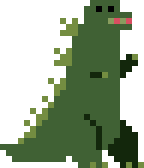
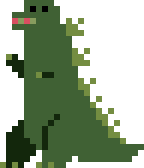
changed dino asset and added intro view

diff --git a/app.js b/app.js
@@ -12,11 +12,11 @@ $(document).ready(function() {
 
 		// wufooSaurus variables
 		wufooSaurus = {
-			width: 145,
-			height: 158,
-			x: 30,
-			y: canvas.height - 158,
-			wufooSaurusSpeed: 13
+			width: 150,
+			height: 175,
+			x: 0,
+			y: canvas.height - 150,
+			wufooSaurusSpeed: 15
 		},
 
 		// survey variables
@@ -75,7 +75,7 @@ $(document).ready(function() {
 			},
 			drawWufooSaurus: function() {
 				var img = new Image();
-				img.src = 'assets/wufooSaurus.png';
+				img.src = 'assets/wufooSaurusSmall.png';
 				function drawDino() {
 					context.drawImage(img, wufooSaurus.x, wufooSaurus.y-10);
 				}
@@ -85,15 +85,9 @@ $(document).ready(function() {
 				init();
 			},
 			drawScore: function() {
-				if($(window).width > 768) {
 					context.font = "14px 'Press Start 2P'";
 					context.fillStyle = "#000";
 					context.fillText("Score:" + score, 15, 30);
-				} else {
-					context.font = "24px 'Press Start 2P'";
-					context.fillStyle = "#000";
-					context.fillText("Score:" + score, 25, 40);
-				}
 			},
 			drawSurveys: function() {
 				for (var i = 0; i < surveys.length; i++) {
@@ -115,12 +109,14 @@ $(document).ready(function() {
 			isColliding: function(a, b) {
 				return !(b.x > a.x + a.width || b.x + b.width < a.x || b.y > a.y + a.height || b.y + b.height < a.y);
 			},
-			logMiss: function() {
+			logMiss: function(score) {
 				continueAnimating = false;
 				$('#surveyModal').modal({
-					// backdrop: 'static',
-					// keyboard: false
+					backdrop: 'static',
+					keyboard: false,
+					score: score
 				});
+				app.find('.completionText').text('Great job! You scored ' + score + '! It seems like you did a little better witha little help!');
 			},
 			moveLeft: function() {
 				wufooSaurus.x -= wufooSaurus.wufooSaurusSpeed;
@@ -138,7 +134,7 @@ $(document).ready(function() {
 			resetSurvey: function(survey) {
 				survey.x = Math.random() * (canvas.width - surveyWidth);
 				survey.y = 40 + Math.random() * 30;
-				survey.speed = (0.55 + Math.random()) * 0.9;
+				survey.speed = (0.5 + Math.random()) * 0.5;
 			},
 			setGame: function() {
 				score = startingScore;
@@ -166,24 +162,25 @@ $(document).ready(function() {
 					if (survey.y > canvas.height) {
 						sound = new Audio("audio/buzzerSound.mp3");
 						sound.play();
-						helper.logMiss();
+						helper.logMiss(score);
 					}
 				}
 			}
 		};
 
-	app.find('.instruction1').show();
+	app.find('.introView').show();
 	app.find('.mobileButtonWrapper').hide();
 
 	for (var i = 0; i < totalSurveys; i++) {
 		helper.addSurvey();
 	}
 
+	helper.bindClick('.button0');
 	helper.bindClick('.button1');
 	helper.bindClick('.button2');
 	helper.bindClick('#start');
 
-	// arrows for desktop
+	// arrow keys for desktop
 	document.onkeydown = function (event) {
 		if (event.keyCode == 39) {
 			helper.moveRight();
@@ -193,17 +190,11 @@ $(document).ready(function() {
 	};
 
 	// buttons for mobile
-	app.find('.mobileRight').on('touchstart mousedown', function(e) {
-		e.preventDefault();
-		int = setInterval(helper.moveRight, 100);
-	}).bind('mouseup', function() {
-		clearInterval(int);
+	app.find('.mobileRight').on('click', function() {
+		helper.moveRight();
 	});
-	app.find('.mobileLeft').on('touchstart mousedown', function(e) {
-		e.preventDefault();
-		int = setInterval(helper.moveLeft, 100);
-	}).bind('mouseup', function() {
-		clearInterval(int);
+	app.find('.mobileLeft').on('click', function() {
+		helper.moveLeft();
 	});
 
 	app.on('click', '.playAgainButton', function() {

diff --git a/index.html b/index.html
@@ -20,12 +20,27 @@
 					<div class="modal-dialog">
 						<div class="modal-content">
 							<div class="modal-body">
-								<p class="completionText">Great job! It seems like you did a little better with a little help!</p>
+								<p class="completionText"></p>
 								<div class="modalButtonWrapper">
 									<button class="modalButton toPortfolioButton">Check out Summer's Portfolio</button>
 									<button class="modalButton playAgainButton">Play again</button>
 								</div>
 								<div class="clearfix"></div>
+							</div>
+						</div>
+					</div>
+				</div>
+				<!-- intro view -->
+				<div class="introView surgeView">
+					<div class="row">
+						<div class="col-xs-12">
+							<div class="introWrapper">
+								<h1>SurveyCatch</h1>
+								<p>A friendship continued...</p>
+								<div class="imageWrapper">
+									<img class="introImg" src="assets/introImage.png">
+								</div>
+								<button class="viewButton button0">play now</button>
 							</div>
 						</div>
 					</div>
@@ -81,7 +96,8 @@
 							<div class="wrapperDiv row">
 								<div class="col-lg-8 col-lg-push-4 col-md-7 col-md-push-5 col-sm-7 col-sm-push-5 col-xs-12 col-xs-push-0">
 									<div class="textWrapper">
-										<p>Catch as many surveys as your can, but be careful. Don't drop any, or we're doomed!</p>
+										<p class="hidden-sm hidden-xs">Catch as many surveys as your can! Use the left and right arrows on your keyboard to move, but be careful. Don't drop any, or we're doomed!</p>
+										<p class="hidden-lg hidden-md">Catch as many surveys as your can! Use the left and right buttons to move, but be careful. Don't drop any, or we're doomed!</p>
 										<div class="buttonWrapper">
 											<button class="viewButton button3" id="start">let's do this.</button>
 										</div>
@@ -98,7 +114,7 @@
 				</div>
 				<!-- game view -->
 				<div class="surveyGame surgeView">
-					<canvas id="canvas" width=780 height=500></canvas>
+					<canvas id="canvas" width=780 height=550></canvas>
 				</div>
 				<div class="mobileButtonWrapper hidden-lg hidden-md hidden-sm col-xs-12">
 					<button class="mobileLeft viewButton">left</button>
@@ -106,9 +122,9 @@
 				</div>
 			</div>
 		</div>
-		<!-- <audio autoplay>
+		<audio autoplay>
 			<source src="audio/gameSong.mp3" type="audio/mpeg">
-		</audio> -->
+		</audio>
 		<script type="text/javascript" src="app.js"></script>
 	</body>
 </html>

diff --git a/main.css b/main.css
@@ -51,14 +51,27 @@ html, body {
 }
 
 .surveySurge {
-	margin-top: 75px;
-	margin-bottom: 75px;
+	margin-top: 30px;
+	margin-bottom: 30px;
 	font-family: 'Press Start 2P';
 }
 
 /* INSTRUCTIONAL VIEWS STYLES */
 .surveySurge .surgeView {
 	display: none;
+}
+
+.surveySurge .introWrapper {
+	text-align: center;
+	background-color: #fff;
+	padding-top: 30px;
+	padding-bottom: 30px;
+	border-radius: 8px;
+}
+
+.surveySurge .introImg {
+	margin-bottom: 25px;
+	width: 300px;
 }
 
 .surveySurge .wrapperDiv {
@@ -69,7 +82,7 @@ html, body {
 }
 
 .surveySurge .imageWrapper {
-	min-height: 220px;
+	min-height: 250px;
 }
 
 .surveySurge .monkeyImg {
@@ -78,7 +91,7 @@ html, body {
 }
 
 .surveySurge .textWrapper {
-	min-height: 170px;
+	min-height: 200px;
 }
 
 .surveySurge .surgeView p {
@@ -175,10 +188,10 @@ html, body {
 /* MEDIA QUERIES */
 @media (max-width: 1199px) {
 	.surveySurge .imageWrapper {
-		min-height: 245px;
+		min-height: 300px;
 	}
 	.surveySurge .textWrapper {
-		min-height: 190px;
+		min-height: 250px;
 	}
 }
 
